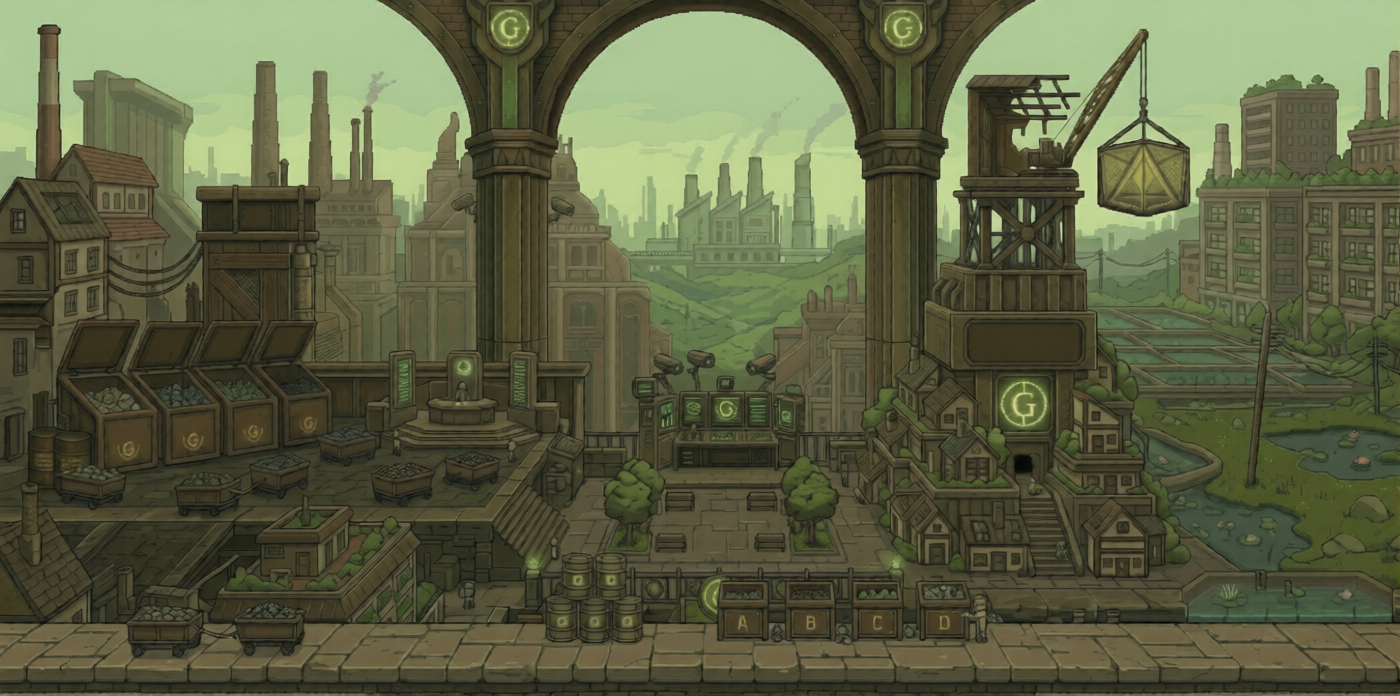
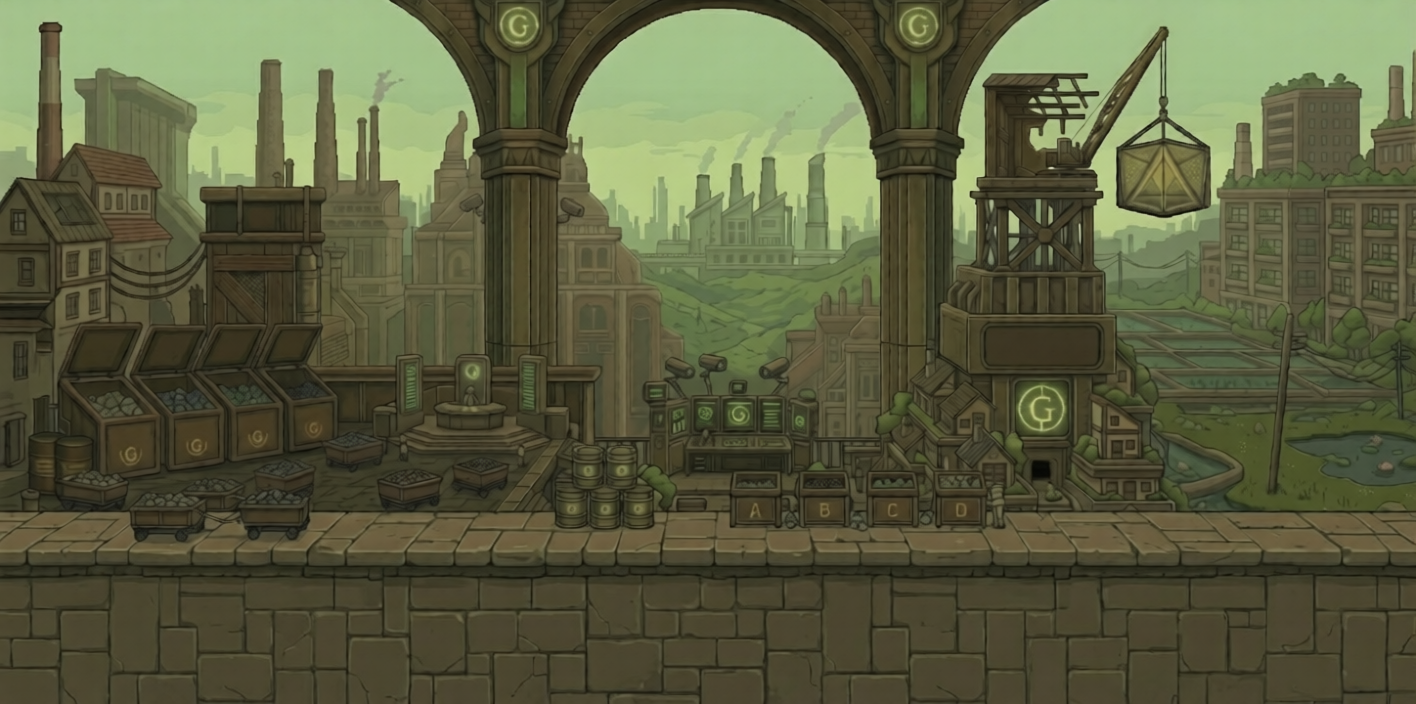
Finalisation epreuve recyclage

diff --git a/game/game.py b/game/game.py
@@ -115,7 +115,7 @@ class Game(Fenetre):
         # On agrandit un peu la hauteur pour ne pas avoir de bande noire en bas quand on remonte l'image
         self.bg_epreuve1 = pygame.transform.scale(self.bg_epreuve1_base, (self.WIDTH, self.HEIGHT + 60))
 
-        image_path_epreuve2 = os.path.join(base_path, "..", "assets", "provisoirebg.png")
+        image_path_epreuve2 = os.path.join(base_path, "..", "assets", "epreuves", "epreuve_recyclage.png")
         self.bg_epreuve2_base = pygame.image.load(image_path_epreuve2).convert()
         self.bg_epreuve2 = pygame.transform.scale(self.bg_epreuve2_base, (self.WIDTH, self.HEIGHT))
         
